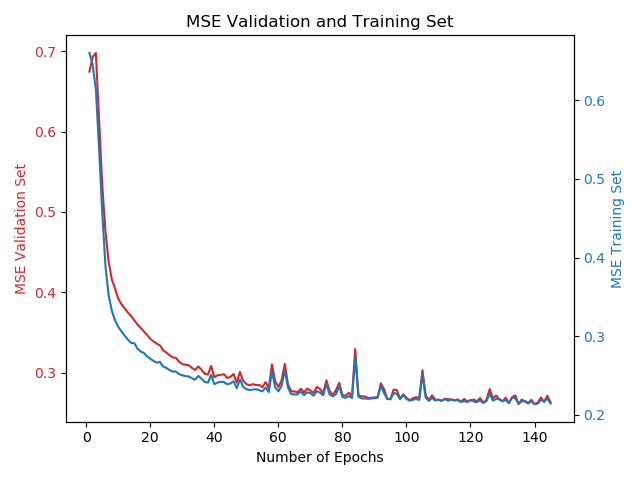
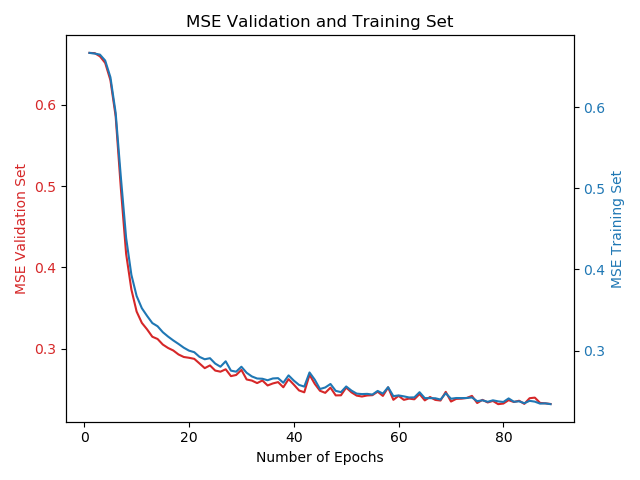
Addition results images and test script

diff --git a/backpropagation/test.py b/backpropagation/test.py
@@ -220,79 +220,141 @@ from sklearn.preprocessing import OneHotEncoder
 # ax.legend()
 # fig.savefig(save_path2)
 
-print("")
-print("PART 4 VOWEL DATASET")
+# print("")
+# print("PART 4 VOWEL DATASET")
+#
+# arff_path = r"training/vowel.arff"
+# dataRaw = arff.Arff(arff=arff_path, label_count=1)
+# data = dataRaw.data[:,0:-1]
+# labels = dataRaw.data[:,-1].reshape(-1,1)
+# data = data[:, [0,1,3,4,5,6,7,8,9,10,11,12]]
[1 lines of base64/hex data omitted]
+# ## Define the initial Parameters ##
+# LR = 0.1
+# DET = 10
+# SHUFFLE = True
+# MOMENTUM = 0.5
+# VALIDATION_SIZE = 0.1
+# HOTENCODING = True
+# numberNodes = np.array([2])
+# ns = 0
+# numberNodesArray=[]
+# MSEs_Training = []
+# MSEs_Validation = []
+# MSEs_Test = []
+# numberOfEpochWithNoImprovement= []
+# bestAccuracy = 0
+# enc = OneHotEncoder()
+#
+# while len(numberOfEpochWithNoImprovement) < 1:
+#     numberNodes2 = np.power(numberNodes,ns)
+#     numberNodesList = list(numberNodes2)
+#     print("number Nodes",numberNodesList)
+#     numberNodesArray.append(numberNodes2[0])
+#     data_train,data_test , labels_train, labels_test = train_test_split(data, labels, test_size=0.25)
+#     BClass = mlp.MLPClassifier(lr = LR,momentum = MOMENTUM, shuffle = SHUFFLE, deterministic = DET, hidden_layer_widths= numberNodesList, validationSize = VALIDATION_SIZE,isHotEncoding= HOTENCODING)
+#     BClass.fit(data_train,labels_train)
+#     enc.fit(labels_train)
+#     enc.fit(labels_test)
+#     labels_train_hot = enc.transform(labels_train).toarray()
+#     labels_test_hot = enc.transform(labels_test).toarray()
+#     mse_train = BClass._get_mse_valSet(data_train,labels_train_hot)
+#     mse_val = BClass.getMSEvalSet()
+#     mse_test = BClass._get_mse_valSet(data_test, labels_test_hot)
+#     MSEs_Test.append(mse_test)
+#     MSEs_Training.append(mse_train)
+#     MSEs_Validation.append(mse_val)
+#     score_run = BClass.getAccuracyValSet()
+#     if score_run > 0.9999:
+#         break
+#     if abs(bestAccuracy - score_run) < bestAccuracy * 0.00001:
+#         numberOfEpochWithNoImprovement.append("1")
+#
+#     else:
+#         if bestAccuracy < score_run :
+#             bestAccuracy= score_run
+#             numberOfEpochWithNoImprovement.clear()
+#         else:
+#             numberOfEpochWithNoImprovement.append("1")
+#     ns = ns + 1
+#     print(numberNodes)
+#     print(numberOfEpochWithNoImprovement)
+# print("number nodes ", numberNodesArray)
+# x = np.arange(len(numberNodesArray))  # the label locations
+# width = 0.2  # the width of the bars
+#
+# fig, ax = plt.subplots()
+# barVal = ax.bar(x - width, MSEs_Validation, width, label='Validation Set')
+# barTrain = ax.bar(x , MSEs_Training, width, label='Training Set')
+# barTest = ax.bar(x + width, MSEs_Test, width, label='Test Set')
+#
+# # Add some text for labels, title and custom x-axis tick labels, etc.
+# ax.set_ylabel('MSE')
+# ax.set_title('Vowel MSE vs. # Nodes in Hidden Layer')
+# ax.set_xticks(x)
+# ax.set_xticklabels(numberNodesArray)
+# ax.set_xlabel('Hidden Layer Nodes')
+# ax.legend()
+# fig.savefig(save_path)
 
-arff_path = r"training/vowel.arff"
-dataRaw = arff.Arff(arff=arff_path, label_count=1)
-data = dataRaw.data[:,0:-1]
-labels = dataRaw.data[:,-1].reshape(-1,1)
-data = data[:, [0,1,3,4,5,6,7,8,9,10,11,12]]
[1 lines of base64/hex data omitted]
-## Define the initial Parameters ##
-LR = 0.1
-DET = 10
-SHUFFLE = True
-MOMENTUM = 0.5
-VALIDATION_SIZE = 0.1
-HOTENCODING = True
-numberNodes = np.array([2])
-ns = 0
-numberNodesArray=[]
-MSEs_Training = []
-MSEs_Validation = []
-MSEs_Test = []
-numberOfEpochWithNoImprovement= []
-bestAccuracy = 0
-enc = OneHotEncoder()
-
-while len(numberOfEpochWithNoImprovement) < 2:
-    numberNodes2 = np.power(numberNodes,ns)
-    numberNodesList = list(numberNodes2)
-    print("OWAWFA",numberNodesList)
-    numberNodesArray.append(numberNodes2[0])
-    data_train,data_test , labels_train, labels_test = train_test_split(data, labels, test_size=0.25)
-    BClass = mlp.MLPClassifier(lr = LR,momentum = MOMENTUM, shuffle = SHUFFLE, deterministic = DET, hidden_layer_widths= numberNodesList, validationSize = VALIDATION_SIZE,isHotEncoding= HOTENCODING)
-    BClass.fit(data_train,labels_train)
-    enc.fit(labels_train)
-    enc.fit(labels_test)
-    labels_train_hot = enc.transform(labels_train).toarray()
-    labels_test_hot = enc.transform(labels_test).toarray()
-    mse_train = BClass._get_mse_valSet(data_train,labels_train_hot)
-    mse_val = BClass.getMSEvalSet()
-    mse_test = BClass._get_mse_valSet(data_test, labels_test_hot)
-    MSEs_Test.append(mse_test)
-    MSEs_Training.append(mse_train)
-    MSEs_Validation.append(mse_val)
-    score_run = BClass.getAccuracyValSet()
-    if score_run > 0.9999:
-        break
-    if abs(bestAccuracy - score_run) < bestAccuracy * 0.00001:
-        numberOfEpochWithNoImprovement.append("@%@#%@#%@")
-
-    else:
-        if bestAccuracy < score_run :
-            bestAccuracy= score_run
-            numberOfEpochWithNoImprovement.clear()
-        else:
-            numberOfEpochWithNoImprovement.append("@%@#%@#%@")
-    ns = ns + 1
-    print(numberNodes)
-    print(numberOfEpochWithNoImprovement)
-print("number nodes ", numberNodesArray)
-x = np.arange(len(numberNodesArray))  # the label locations
-width = 0.2  # the width of the bars
-
-fig, ax = plt.subplots()
-barVal = ax.bar(x - width, MSEs_Validation, width, label='Validation Set')
-barTrain = ax.bar(x , MSEs_Training, width, label='Training Set')
-barTest = ax.bar(x + width, MSEs_Test, width, label='Test Set')
-
-# Add some text for labels, title and custom x-axis tick labels, etc.
-ax.set_ylabel('MSE')
-ax.set_title('Vowel MSE vs. # Nodes in Hidden Layer')
-ax.set_xticks(x)
-ax.set_xticklabels(numberNodesArray)
-ax.set_xlabel('Hidden Layer Nodes')
-ax.legend()
-fig.savefig(save_path)
+# print("")
+# print("PART 5 VOWEL DATASET")
+# arff_path = r"training/vowel.arff"
+# dataRaw = arff.Arff(arff=arff_path, label_count=1)
+# data = dataRaw.data[:,0:-1]
+# labels = dataRaw.data[:,-1].reshape(-1,1)
+# data = data[:, [0,1,3,4,5,6,7,8,9,10,11,12]]
[1 lines of base64/hex data omitted]
+# ## Define the initial Parameters ##
+# LR = 0.1
+# DET = 10
+# SHUFFLE = True
+# MOMENTUM = 0.0
+# VALIDATION_SIZE = 0.1
+# HOTENCODING = True
+# ns = 0
+# MSEs_Training = []
+# MSEs_Validation = []
+# MSEs_Test = []
+# numberOfEpochWithNoImprovement= []
+# bestAccuracy = 0
+# momentumList=[]
+# numberEpochsToStop=[]
+# enc = OneHotEncoder()
+# while len(numberOfEpochWithNoImprovement) < 1:
+#     momentumList.append(MOMENTUM)
+#     data_train,data_test , labels_train, labels_test = train_test_split(data, labels, test_size=0.25)
+#     BClass = mlp.MLPClassifier(lr = LR,momentum = MOMENTUM, shuffle = SHUFFLE, deterministic = DET, hidden_layer_widths= [16], validationSize = VALIDATION_SIZE,isHotEncoding= HOTENCODING)
+#     BClass.fit(data_train,labels_train)
+#     numberEpochsToStop.append(BClass.get_numberEpochs())
+#
+#     score_run = BClass.getAccuracyValSet()
+#     if score_run > 0.9999:
+#         break
+#     if abs(bestAccuracy - score_run) < bestAccuracy * 0.00001:
+#         numberOfEpochWithNoImprovement.append("1")
+#
+#     else:
+#         if bestAccuracy < score_run :
+#             bestAccuracy= score_run
+#             numberOfEpochWithNoImprovement.clear()
+#         else:
+#             numberOfEpochWithNoImprovement.append("1")
+#     ns = ns + 1
+#     MOMENTUM = MOMENTUM + 0.1
+#     print(numberOfEpochWithNoImprovement)
+#
+# """ GRAPHS MOMENTUM VS EPOCHS """
+# fig, ax1 = plt.subplots()
+# ax1.title.set_text('Vowel Epochs vs. Momentum')
+#
+# color = 'tab:red'
+# ax1.set_xlabel('Momentum')
+# ax1.set_ylabel('Epochs', color=color)
+# ax1.plot(numberEpochsToStop, momentumList, color=color)
+# ax1.tick_params(axis='y', labelcolor=color)
+#
+#
+# fig.tight_layout()  # otherwise the right y-label is slightly clipped
+# # plt.show()
+# fig.savefig(save_path)
